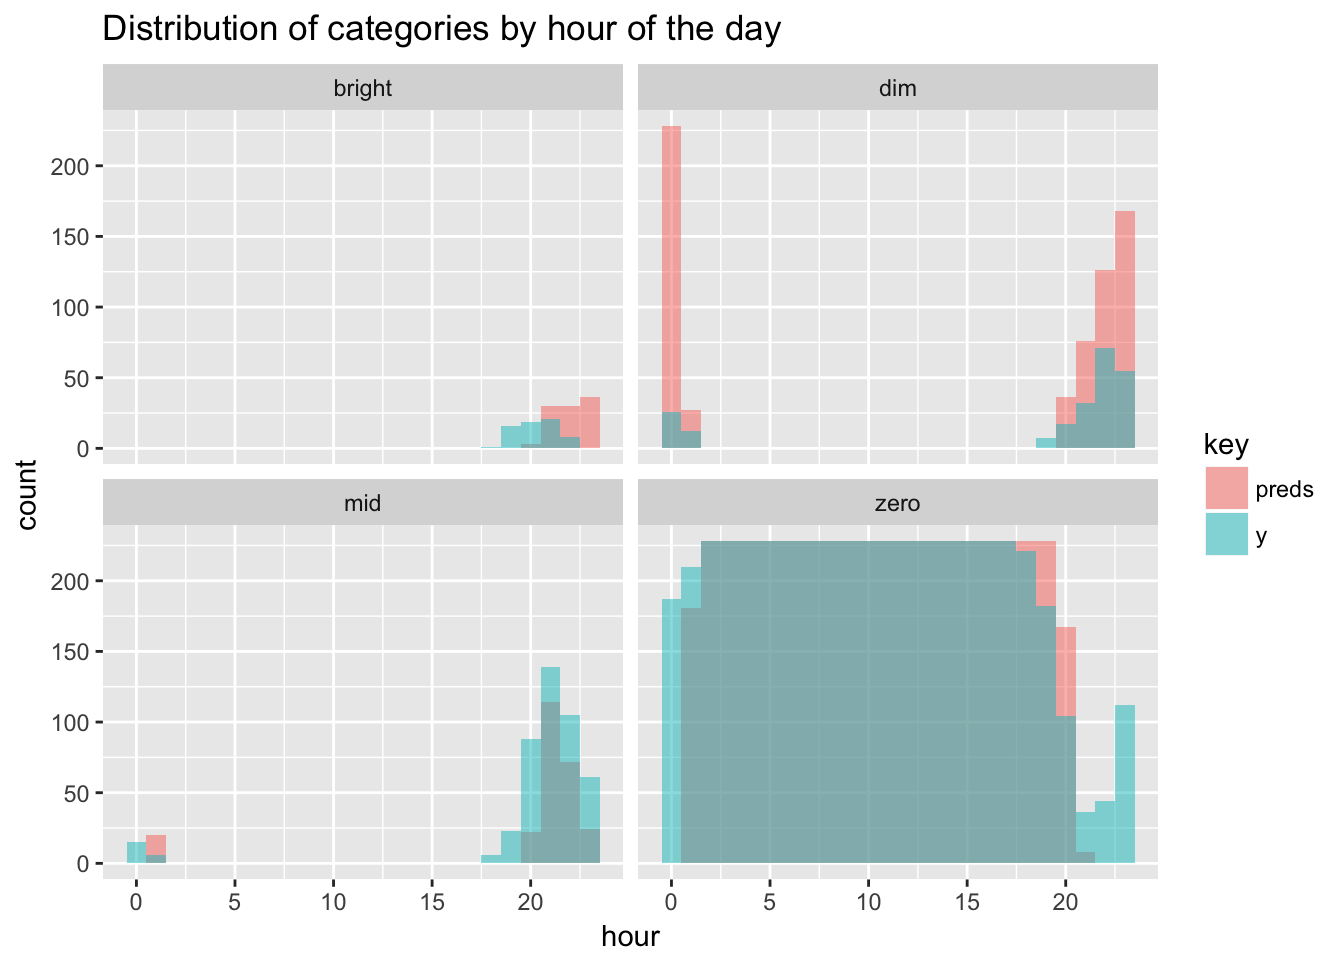
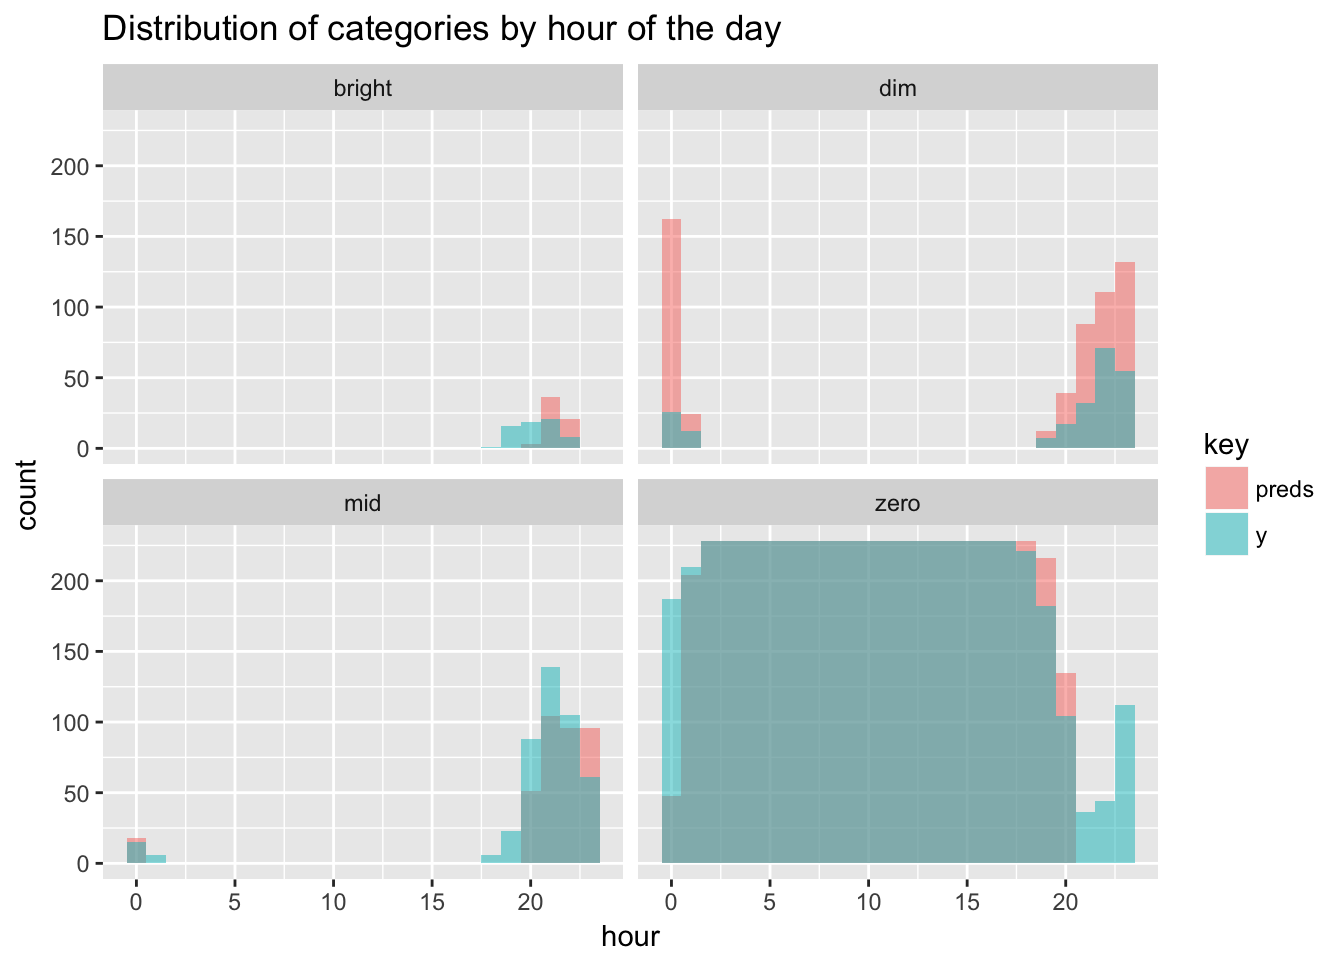
formula fix in nnet post

diff --git a/blog/self-learning-hue-lights/index.html b/blog/self-learning-hue-lights/index.html
@@ -44,10 +44,10 @@
 
 
     
-    <link rel="stylesheet" href="../../css/reset.css?t=1511658453">
-    <link rel="stylesheet" href="../../css/main.css?t=1511658453">
+    <link rel="stylesheet" href="../../css/reset.css?t=1512501783">
+    <link rel="stylesheet" href="../../css/main.css?t=1512501783">
     
-        <link rel="stylesheet" href="../../css/override.css?t=1511658453">
+        <link rel="stylesheet" href="../../css/override.css?t=1512501783">
     
 
 
@@ -277,10 +277,10 @@ gbmFit &lt;- train(y ~ ., data = training,
 table(preds, testing$y)</code></pre>
 <pre><code>##         
 ## preds     dim  mid bright zero
-##   dim      85  192     18  366
-##   mid      62  100     17   73
-##   bright   39   40      0   20
-##   zero     34  111     30 4285</code></pre>
+##   dim      86  172     26  284
+##   mid      76  139     11  139
+##   bright   18   40      0    2
+##   zero     40   92     28 4319</code></pre>
 <p>Most mistakes are made trying to classify bright and mid. The model gets 0 bright values right and only manages to do so correctly 14% of the time for mid. But when do errors happen? To dig a little deeper let’s look at the previous histogram of categories by hour again for the test set, but now with the predictions overlaid on top.</p>
 <p><img src="../../blog/2017/2017-05-14-hue_files/figure-html/unnamed-chunk-11-1.png" width="672" /></p>
 <p>Bright values were always going be hard to guess, but the model at least comes close in terms of hours, but off on the exact days. The majority of misclassification comes from overzealously predicting dim in the evening and around midnight, when it should really be either mid or zero. That looks like a workable scenario for me.</p>

diff --git a/blog/an-animated-neural-net-implementation/index.html b/blog/an-animated-neural-net-implementation/index.html
@@ -44,10 +44,10 @@
 
 
     
-    <link rel="stylesheet" href="../../css/reset.css?t=1511658453">
-    <link rel="stylesheet" href="../../css/main.css?t=1511658453">
+    <link rel="stylesheet" href="../../css/reset.css?t=1512501783">
+    <link rel="stylesheet" href="../../css/main.css?t=1512501783">
     
-        <link rel="stylesheet" href="../../css/override.css?t=1511658453">
+        <link rel="stylesheet" href="../../css/override.css?t=1512501783">
     
 
 
@@ -270,7 +270,7 @@ Z = {W^T}X + b=
     
     return(parameters)
 }</code></pre>
-<p>Remember the schema is <span class="math inline">\(X -&gt;Z^{[1]}-&gt;A^{[1]}-&gt;Z^{[2]}-&gt;A^{[2]}\)</span>. Both <span class="math inline">\(Z^{[1]}\)</span> and <span class="math inline">\(Z^{[2]}\)</span> are the same linear function, while <span class="math inline">\(A^{[1]} = \tanh(Z^{[1]})\)</span> and <span class="math inline">\(A^{[1]} = \sigma(Z^{[2]})\)</span>. The sigmoid function didn’t make it to <code>base</code> R, so we define it first.</p>
+<p>Remember the schema is <span class="math inline">\(X -&gt;Z^{[1]}-&gt;A^{[1]}-&gt;Z^{[2]}-&gt;A^{[2]}\)</span>. Both <span class="math inline">\(Z^{[1]}\)</span> and <span class="math inline">\(Z^{[2]}\)</span> are the same linear function, while <span class="math inline">\(A^{[1]} = \tanh(Z^{[1]})\)</span> and <span class="math inline">\(A^{[2]} = \sigma(Z^{[2]})\)</span>. The sigmoid function didn’t make it to <code>base</code> R, so we define it first.</p>
 <pre class="r"><code>sigmoid &lt;- function(x) {
    1 / (1 + exp(-x))
 }

diff --git a/blog/a-tidy-text-analysis-of-rick-and-morty/index.html b/blog/a-tidy-text-analysis-of-rick-and-morty/index.html
@@ -44,10 +44,10 @@
 
 
     
-    <link rel="stylesheet" href="../../css/reset.css?t=1511658453">
-    <link rel="stylesheet" href="../../css/main.css?t=1511658453">
+    <link rel="stylesheet" href="../../css/reset.css?t=1512501783">
+    <link rel="stylesheet" href="../../css/main.css?t=1512501783">
     
-        <link rel="stylesheet" href="../../css/override.css?t=1511658453">
+        <link rel="stylesheet" href="../../css/override.css?t=1512501783">
     
 
 

diff --git a/blog/analyzing-my-spotify-listening-history/index.html b/blog/analyzing-my-spotify-listening-history/index.html
@@ -44,10 +44,10 @@
 
 
     
-    <link rel="stylesheet" href="../../css/reset.css?t=1511658453">
-    <link rel="stylesheet" href="../../css/main.css?t=1511658453">
+    <link rel="stylesheet" href="../../css/reset.css?t=1512501783">
+    <link rel="stylesheet" href="../../css/main.css?t=1512501783">
     
-        <link rel="stylesheet" href="../../css/override.css?t=1511658453">
+        <link rel="stylesheet" href="../../css/override.css?t=1512501783">
     
 
 

diff --git a/blog/creating-a-spotify-playlist-using-luigi/index.html b/blog/creating-a-spotify-playlist-using-luigi/index.html
@@ -44,10 +44,10 @@
 
 
     
-    <link rel="stylesheet" href="../../css/reset.css?t=1511658453">
-    <link rel="stylesheet" href="../../css/main.css?t=1511658453">
+    <link rel="stylesheet" href="../../css/reset.css?t=1512501783">
+    <link rel="stylesheet" href="../../css/main.css?t=1512501783">
     
-        <link rel="stylesheet" href="../../css/override.css?t=1511658453">
+        <link rel="stylesheet" href="../../css/override.css?t=1512501783">
     
 
 

diff --git a/blog/starting-a-blogdown/index.html b/blog/starting-a-blogdown/index.html
@@ -44,10 +44,10 @@
 
 
     
-    <link rel="stylesheet" href="../../css/reset.css?t=1511658453">
-    <link rel="stylesheet" href="../../css/main.css?t=1511658453">
+    <link rel="stylesheet" href="../../css/reset.css?t=1512501783">
+    <link rel="stylesheet" href="../../css/main.css?t=1512501783">
     
-        <link rel="stylesheet" href="../../css/override.css?t=1511658453">
+        <link rel="stylesheet" href="../../css/override.css?t=1512501783">
     
 
 

diff --git a/categories/r/index.html b/categories/r/index.html
@@ -44,10 +44,10 @@
 
 
     
-    <link rel="stylesheet" href="../../css/reset.css?t=1511658453">
-    <link rel="stylesheet" href="../../css/main.css?t=1511658453">
+    <link rel="stylesheet" href="../../css/reset.css?t=1512501784">
+    <link rel="stylesheet" href="../../css/main.css?t=1512501784">
     
-        <link rel="stylesheet" href="../../css/override.css?t=1511658453">
+        <link rel="stylesheet" href="../../css/override.css?t=1512501784">
     
 
 

diff --git a/tags/ai/index.html b/tags/ai/index.html
@@ -44,10 +44,10 @@
 
 
     
-    <link rel="stylesheet" href="../../css/reset.css?t=1511658453">
-    <link rel="stylesheet" href="../../css/main.css?t=1511658453">
+    <link rel="stylesheet" href="../../css/reset.css?t=1512501783">
+    <link rel="stylesheet" href="../../css/main.css?t=1512501783">
     
-        <link rel="stylesheet" href="../../css/override.css?t=1511658453">
+        <link rel="stylesheet" href="../../css/override.css?t=1512501783">
     
 
 

diff --git a/tags/blogdown/index.html b/tags/blogdown/index.html
@@ -44,10 +44,10 @@
 
 
     
-    <link rel="stylesheet" href="../../css/reset.css?t=1511658453">
-    <link rel="stylesheet" href="../../css/main.css?t=1511658453">
+    <link rel="stylesheet" href="../../css/reset.css?t=1512501783">
+    <link rel="stylesheet" href="../../css/main.css?t=1512501783">
     
-        <link rel="stylesheet" href="../../css/override.css?t=1511658453">
+        <link rel="stylesheet" href="../../css/override.css?t=1512501783">
     
 
 

diff --git a/tags/deep-learning/index.html b/tags/deep-learning/index.html
@@ -44,10 +44,10 @@
 
 
     
-    <link rel="stylesheet" href="../../css/reset.css?t=1511658453">
-    <link rel="stylesheet" href="../../css/main.css?t=1511658453">
+    <link rel="stylesheet" href="../../css/reset.css?t=1512501784">
+    <link rel="stylesheet" href="../../css/main.css?t=1512501784">
     
-        <link rel="stylesheet" href="../../css/override.css?t=1511658453">
+        <link rel="stylesheet" href="../../css/override.css?t=1512501784">
     
 
 

diff --git a/tags/dplyr/index.html b/tags/dplyr/index.html
@@ -44,10 +44,10 @@
 
 
     
-    <link rel="stylesheet" href="../../css/reset.css?t=1511658453">
-    <link rel="stylesheet" href="../../css/main.css?t=1511658453">
+    <link rel="stylesheet" href="../../css/reset.css?t=1512501784">
+    <link rel="stylesheet" href="../../css/main.css?t=1512501784">
     
-        <link rel="stylesheet" href="../../css/override.css?t=1511658453">
+        <link rel="stylesheet" href="../../css/override.css?t=1512501784">
     
 
 

diff --git a/tags/ggplot/index.html b/tags/ggplot/index.html
@@ -44,10 +44,10 @@
 
 
     
-    <link rel="stylesheet" href="../../css/reset.css?t=1511658453">
-    <link rel="stylesheet" href="../../css/main.css?t=1511658453">
+    <link rel="stylesheet" href="../../css/reset.css?t=1512501784">
+    <link rel="stylesheet" href="../../css/main.css?t=1512501784">
     
-        <link rel="stylesheet" href="../../css/override.css?t=1511658453">
+        <link rel="stylesheet" href="../../css/override.css?t=1512501784">
     
 
 
